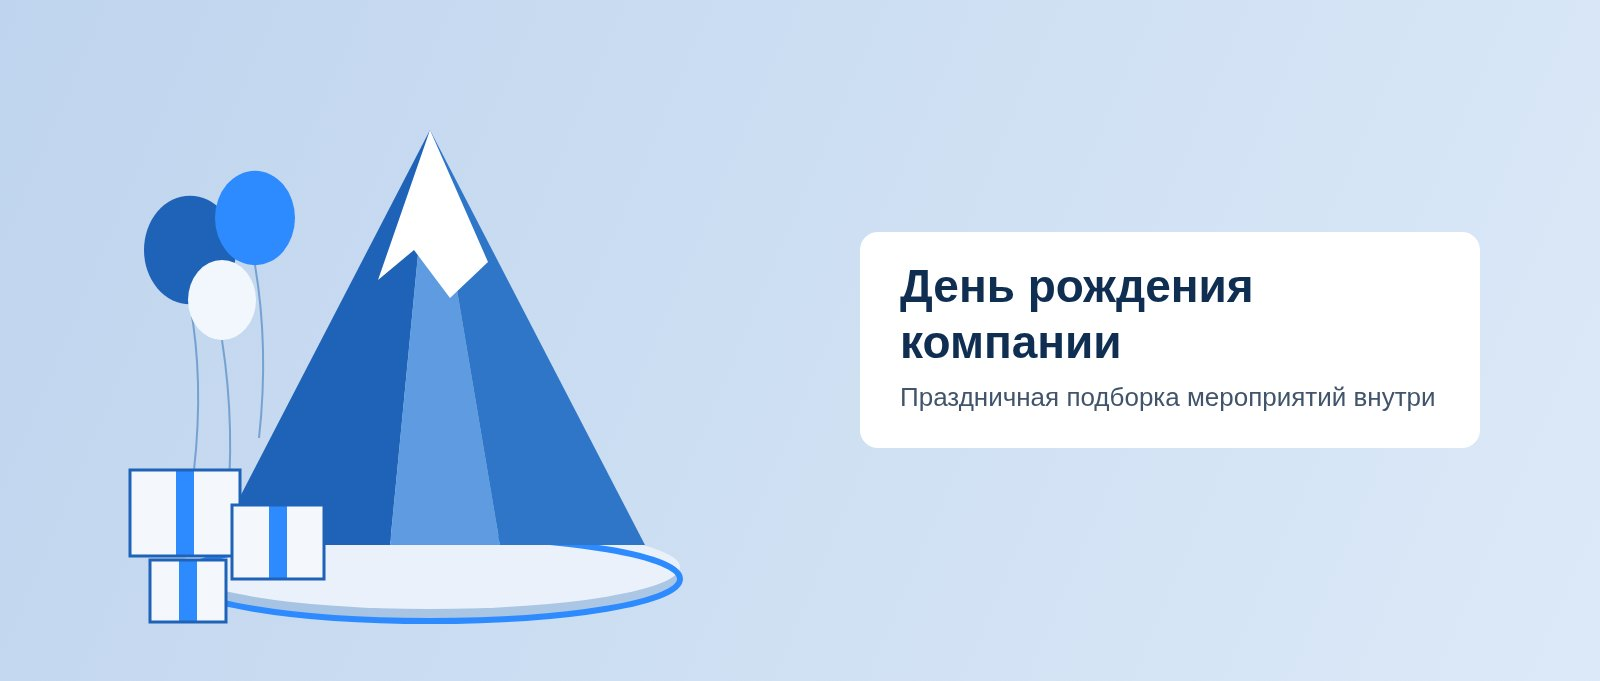
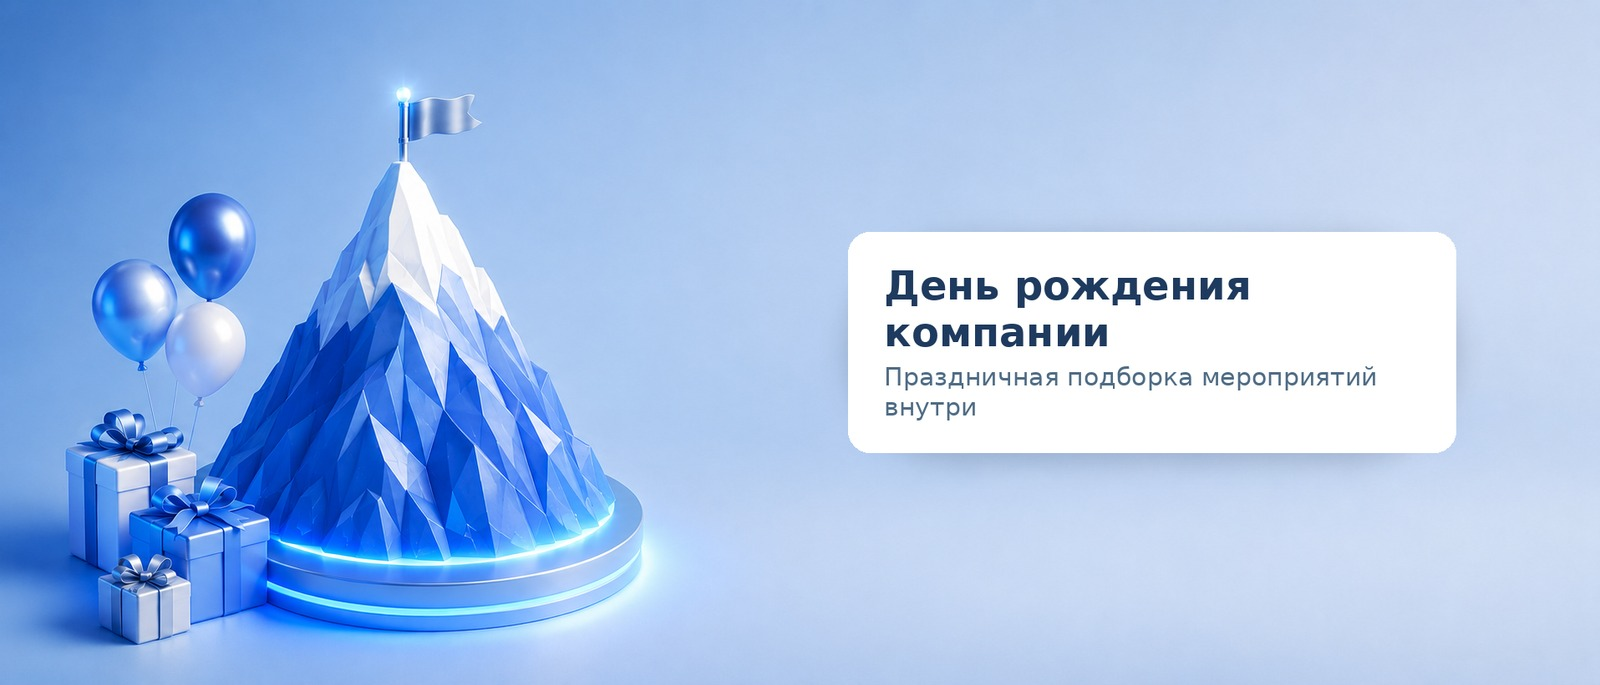
Настоящие рендеры баннеров вместо заглушек
Три файла из архива положены под теми же именами, поэтому код менять не
пришлось. Заглушки, сгенерированные для проверки верстки, перезаписаны.

Пропорция уточнена с 2.35:1 на точную 1600/685 по самим файлам: при округлении
object-fit: cover подрезал бы по паре пикселей с краев. Добавлены атрибуты width
и height — браузер резервирует место под баннер до загрузки и страница не
дергается.

Пережимать не понадобилось: файлы уже 132–164 КБ.

Проверено: tsc --noEmit, vite build, 98 тестов, скриншоты трех тем и мобильного.

Claude-Session: https://claude.ai/code/session_018oJKoLLtXujkfJDesxcgFi

diff --git a/colvir-event-portal/src/components/ThemeBanner.tsx b/colvir-event-portal/src/components/ThemeBanner.tsx
@@ -53,14 +53,16 @@ export const ThemeBanner: React.FC = () => {
   return (
     <div className="relative border-b border-slate-200 bg-slate-100">
       {/*
-        Пропорция задана по самому файлу (2.35:1), а не фиксированной высотой:
+        Пропорция задана точно по файлам (1600×685), а не фиксированной высотой:
         заголовок и подпись впечатаны в изображение, и любая обрезка по высоте
         рано или поздно срезала бы текст на неудачной ширине экрана.
       */}
       <img
         src={banner}
         alt={label}
-        className="w-full aspect-[2.35/1] object-cover"
+        width={1600}
+        height={685}
+        className="w-full aspect-[1600/685] object-cover"
       />
 
       <button

diff --git a/colvir-event-portal/README.md b/colvir-event-portal/README.md
@@ -101,15 +101,16 @@ src/
 `ThemeBanner.tsx` рендерит `<img>` — ни текста поверх, ни градиентов, ни
 декоративных иконок: заголовок и подпись впечатаны в само изображение. Файлы:
 
-| Тема | Файл |
-| --- | --- |
-| Новый год | `colvir-mountain-newyear.jpg` |
-| Весна | `colvir-mountain-spring.jpg` |
-| День рождения | `colvir-mountain-birthday.jpg` |
+| Тема | Файл | Размер |
+| --- | --- | --- |
+| Новый год | `colvir-mountain-newyear.jpg` | 1600×685, 164 КБ |
+| Весна | `colvir-mountain-spring.jpg` | 1600×685, 151 КБ |
+| День рождения | `colvir-mountain-birthday.jpg` | 1600×685, 132 КБ |
 
-Высота задана пропорцией `2.35:1` по самому файлу, а не фиксированным
+Высота задана пропорцией `1600/685` по самим файлам, а не фиксированным
 значением: при обрезке по высоте на неудачной ширине экрана срезало бы
-впечатанный текст. Обратная сторона решения — на узком экране баннер
+впечатанный текст. При замене файлов держите ту же пропорцию, иначе `object-fit:
+cover` начнет подрезать края. Обратная сторона решения — на узком экране баннер
 пропорционально уменьшается вместе с текстом, поэтому подпись на телефоне
 мелкая. Если это станет мешать, понадобится отдельный кроп под мобильный.
 
